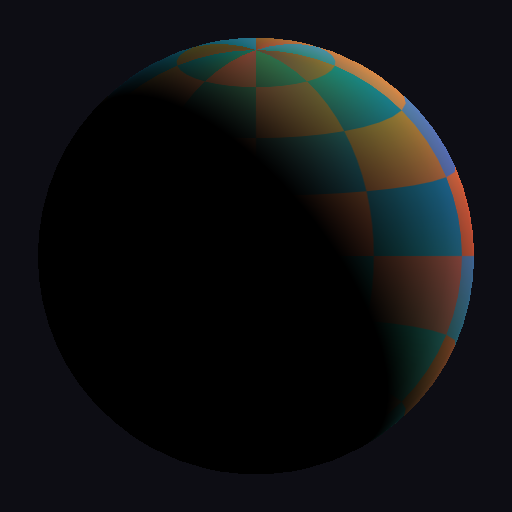
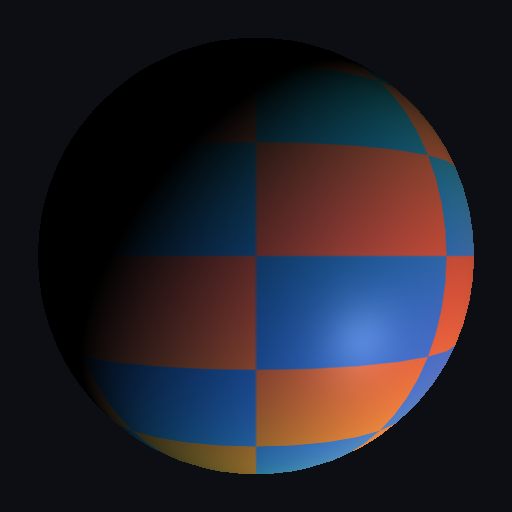
Fix PBR rendering to produce pixel-perfect match across Python, C++, Rust
Root cause: wgpu (Python) uses a negative viewport height internally,
creating a double Y-flip with the projection matrix. Native Vulkan had
only the projection flip, producing a vertically mirrored image.

Fix: Use negative viewport height (VK_KHR_maintenance1) in C++ and Rust
PBR pipelines to match wgpu behavior. Disable face culling to avoid
winding order issues with the viewport flip (depth test handles
front/back correctly for the single-sphere scene).

Result: 0.00 mean pixel difference across all three renderers.

diff --git a/playground_cpp/src/raster_renderer.cpp b/playground_cpp/src/raster_renderer.cpp
@@ -614,11 +614,12 @@ void RasterRenderer::createPipelinePBR(VulkanContext& ctx) {
     inputAssembly.sType = VK_STRUCTURE_TYPE_PIPELINE_INPUT_ASSEMBLY_STATE_CREATE_INFO;
     inputAssembly.topology = VK_PRIMITIVE_TOPOLOGY_TRIANGLE_LIST;
 
+    // Negative viewport height (VK_KHR_maintenance1) to match wgpu Y convention
     VkViewport viewport = {};
     viewport.x = 0.0f;
-    viewport.y = 0.0f;
+    viewport.y = static_cast<float>(renderHeight);
     viewport.width = static_cast<float>(renderWidth);
-    viewport.height = static_cast<float>(renderHeight);
+    viewport.height = -static_cast<float>(renderHeight);
     viewport.minDepth = 0.0f;
     viewport.maxDepth = 1.0f;
 
@@ -637,7 +638,7 @@ void RasterRenderer::createPipelinePBR(VulkanContext& ctx) {
     rasterizer.sType = VK_STRUCTURE_TYPE_PIPELINE_RASTERIZATION_STATE_CREATE_INFO;
     rasterizer.polygonMode = VK_POLYGON_MODE_FILL;
     rasterizer.lineWidth = 1.0f;
-    rasterizer.cullMode = VK_CULL_MODE_BACK_BIT;
+    rasterizer.cullMode = VK_CULL_MODE_NONE;
     rasterizer.frontFace = VK_FRONT_FACE_COUNTER_CLOCKWISE;
 
     VkPipelineMultisampleStateCreateInfo multisampling = {};

diff --git a/playground_rust/src/raster_renderer.rs b/playground_rust/src/raster_renderer.rs
@@ -1324,9 +1324,11 @@ fn render_pbr(
     let input_assembly = vk::PipelineInputAssemblyStateCreateInfo::default()
         .topology(vk::PrimitiveTopology::TRIANGLE_LIST);
 
+    // Negative viewport height (VK_KHR_maintenance1) to match wgpu Y convention
     let viewport = vk::Viewport::default()
+        .y(height as f32)
         .width(width as f32)
-        .height(height as f32)
+        .height(-(height as f32))
         .max_depth(1.0);
 
     let scissor = vk::Rect2D::default().extent(vk::Extent2D { width, height });
@@ -1337,7 +1339,7 @@ fn render_pbr(
 
     let rasterizer = vk::PipelineRasterizationStateCreateInfo::default()
         .polygon_mode(vk::PolygonMode::FILL)
-        .cull_mode(vk::CullModeFlags::BACK)
+        .cull_mode(vk::CullModeFlags::NONE)
         .front_face(vk::FrontFace::COUNTER_CLOCKWISE)
         .line_width(1.0);
 

diff --git a/playground/render_pbr.py b/playground/render_pbr.py
@@ -32,7 +32,7 @@ def perspective(fov_y: float, aspect: float, near: float, far: float) -> np.ndar
     f = 1.0 / math.tan(fov_y / 2.0)
     m = np.zeros((4, 4), dtype=np.float32)
     m[0, 0] = f / aspect
-    m[1, 1] = -f  # Vulkan y-flip
+    m[1, 1] = -f  # Vulkan y-flip (wgpu double-flips via viewport)
     m[2, 2] = far / (near - far)
     m[2, 3] = -1.0
     m[3, 2] = (near * far) / (near - far)
